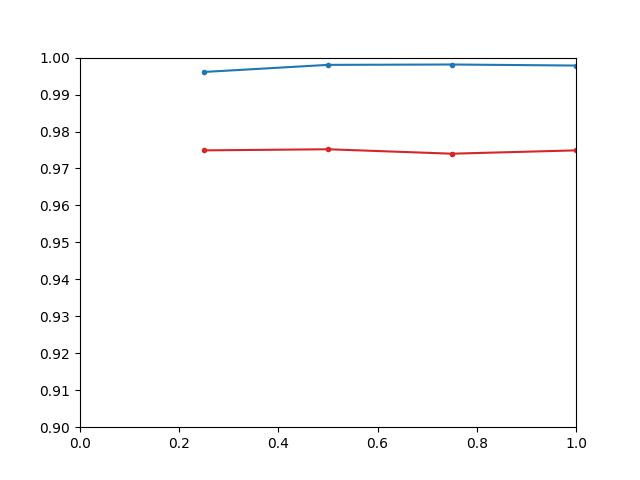
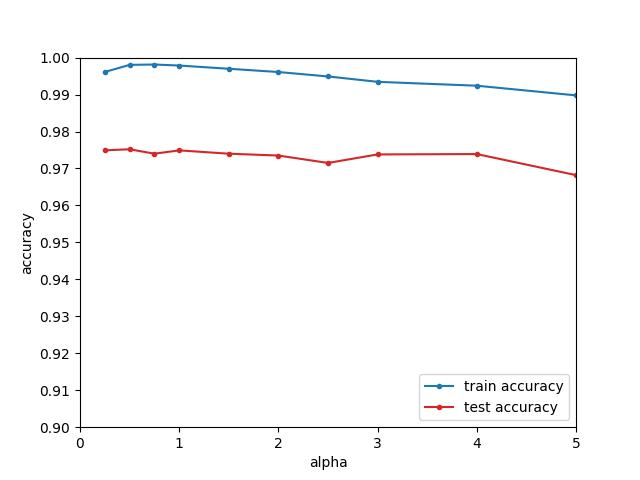
updated accuracy figures, added more in sigmoid

diff --git a/plot_param.py b/plot_param.py
@@ -21,14 +21,19 @@ path = Path(result_path / surrogate_name)
 # specify the list of alpha values
 if surrogate_name == "power":
   alpha_list = [0.1, 0.2, 0.25, 0.3, 0.4, 0.5, 0.6, 0.7, 0.75, 0.8, 0.9] # for power
+  x_range = [0,1]
 elif surrogate_name == "piecewise_quad":
   alpha_list = [0.05, 0.1, 0.15, 0.2, 0.25, 0.3, 0.4, 0.5, 0.6, 0.7, 0.8, 0.9, 1.0, 1.5, 2.0] # for piecewise_quad
+  x_range = [0,2]
 elif surrogate_name == "trigono":
   alpha_list = [0.25, 0.5, 1.0, 1.5, 2.0, 2.5, 3.0, 4.0, 5.0, 6.0, 7.0, 8.0, 9.0, 10.0] # for trigono
+  x_range = [0,10]
 elif surrogate_name == "sigmoid":
-  alpha_list = [0.5, 1.0, 2.0, 5.0] # for sigmoid
+  alpha_list = [0.25, 0.5, 0.75, 1.0, 1.5, 2.0, 3.0, 4.0, 5.0, 6.0, 7.0, 8.0, 9.0, 10.0] # for sigmoid
+  x_range = [0,10]
 else:
   alpha_list = [0.25, 0.5, 0.75, 1.0, 1.5, 2.0, 2.5, 3.0, 4.0, 5.0] # for others
+  x_range = [0,5]
 
 test_acc_list = []
 train_acc_list = []
@@ -42,12 +47,16 @@ for alpha in alpha_list:
 
 df = pd.DataFrame({'alpha': alpha_list, 'train_acc': train_acc_list, 'test_acc': test_acc_list})
 
-plt.plot(alpha_list, train_acc_list, color='tab:blue', marker='.')
-plt.plot(alpha_list, test_acc_list, color='tab:red', marker='.')
+plt.plot(alpha_list, train_acc_list, color='tab:blue', marker='.', label="train accuracy")
+plt.plot(alpha_list, test_acc_list, color='tab:red', marker='.', label = "test accuracy")
 
 plt.yticks(np.arange(0.9, 1.01, 0.01))
 plt.ylim([0.9, 1.0])
-plt.xlim([0.0, 1.0])
+plt.xlim(x_range)
+
+plt.xlabel("alpha")
+plt.ylabel("accuracy")
+plt.legend(loc="lower right")
 
 plt.savefig(plot_path / "acc_alpha" / "{}.jpg".format(surrogate_name))
 df.to_csv(plot_path / "acc_alpha" / "{}.csv".format(surrogate_name))
